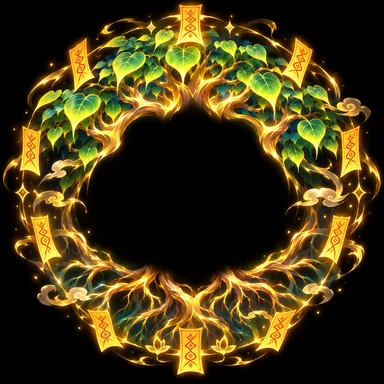
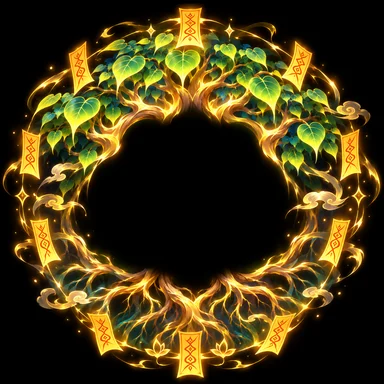
Sua hao quang SSR: can giua theo than tung dang, bo xoay, anh hao quang can tam lai

diff --git a/js/main.js b/js/main.js
@@ -2873,12 +2873,15 @@ const SSR_FX = {
 };
 const SFI = {}; function sfImg(n) { let i = SFI[n]; if (!i) { i = SFI[n] = new Image(); i.src = 'art/ssrfx/' + n + '.webp'; } return i.complete && i.naturalWidth ? i : null; }
 function ssrFxOn(u) { return u && u.side === 'h' && SSR_FX[u.id] && !u.clone && S.gfx !== 'low'; }
-function drawSsrAura(u, h) {   // hào quang sau lưng: xoay chậm, đập nhịp, sáng hơn khi đầy nộ
+function drawSsrAura(u, h) {   // hào quang sau lưng: đứng yên đúng tâm thân, đập nhịp, sáng hơn khi đầy nộ
   const im = sfImg('aura_' + u.id); if (!im) return; const full = u.mp >= 100 ? 1 : 0;
-  const S_ = h * (1.35 + 0.05 * Math.sin(u.t * 3)) * (1 + 0.15 * full);
-  ctx.save(); ctx.globalCompositeOperation = 'lighter'; ctx.globalAlpha = 0.42 + 0.12 * Math.sin(u.t * 2.2) + 0.25 * full;
-  ctx.translate(0, -h * 0.5); ctx.rotate(u.t * 0.35); ctx.drawImage(im, -S_ / 2, -S_ / 2, S_, S_); ctx.restore();
-  if (Math.random() < 0.05 + 0.1 * full) ssrPart(u.id, u.x + rand(-30, 30), u.y - h * rand(0.2, 0.9), rand(-20, 20), -rand(20, 60), 0.9);
+  const T = window.AURA_C0 && AURA_C0[u.id], tc = T && (T[u.pzN] || T.idle1); if (!tc) return;
+  u.auC = u.auC || tc.slice(); u.auC[0] += (tc[0] - u.auC[0]) * 0.25; u.auC[1] += (tc[1] - u.auC[1]) * 0.25;   // trượt mượt theo dáng
+  const hh = h * (HFIX[u.id] || 1), cx = u.auC[0] * hh * u.f * (FACE[u.id] || 1), cy = -u.auC[1] * hh;
+  const S_ = hh * (1.25 + 0.04 * Math.sin(u.t * 3)) * (1 + 0.12 * full);
+  ctx.save(); ctx.globalCompositeOperation = 'lighter'; ctx.globalAlpha = 0.45 + 0.1 * Math.sin(u.t * 2.2) + 0.25 * full;
+  ctx.drawImage(im, cx - S_ / 2, cy - S_ / 2, S_, S_); ctx.restore();
+  if (Math.random() < 0.05 + 0.1 * full) ssrPart(u.id, u.x + cx + rand(-30, 30), u.y + cy + rand(-40, 40), rand(-20, 20), -rand(20, 60), 0.9);
 }
 function ssrPart(id, x, y, vx, vy, life) { const F = SSR_FX[id]; if (!F || !B) return; B.parts.push({ x, y, vx, vy, life, max: life, color: F.col, size: 9 + Math.random() * 6, img: F.pt[0], rot: Math.random() * 6, vr: rand(-4, 4), nograv: 1 }); }
 function drawSsrProj(p) {   // đạn vẽ tay + quầng sáng (bloom giả bằng gradient cộng sáng)

diff --git a/index.html b/index.html
@@ -14,24 +14,25 @@
 <link rel="preconnect" href="https://fonts.googleapis.com">
 <link rel="preconnect" href="https://fonts.gstatic.com" crossorigin>
 <link href="https://fonts.googleapis.com/css2?family=Baloo+2:wght@500;600;700;800&display=swap" rel="stylesheet">
-<link rel="stylesheet" href="css/style.css?v=1795348332">
+<link rel="stylesheet" href="css/style.css?v=1795362587">
 </head>
 <body>
 <div id="app">
   <canvas id="game"></canvas>
   <div id="ui"></div>
 </div>
-<script src="js/data.js?v=1795348332"></script><script src="art/enemies/meta.js?v=1795348332"></script><script src="art/poses/hmeta.js?v=1795348332"></script>
-<script src="js/art.js?v=1795348332"></script>
-<script src="art/anim/manifest.js?v=1795348332"></script>
-<script src="js/rig.js?v=1795348332"></script>
-<script src="art/rig/all.js?v=1795348332"></script>
-<script src="js/layered.js?v=1795348332"></script>
-<script src="art/mesh/index.js?v=1795348332"></script>
-<script src="js/meshrig.js?v=1795348332"></script>
-<script src="art/skel/index.js?v=1795348332"></script>
-<script src="js/skel.js?v=1795348332"></script>
-<script src="js/vfx.js?v=1795348332"></script>
-<script src="js/main.js?v=1795348332"></script>
+<script src="js/data.js?v=1795362587"></script><script src="art/enemies/meta.js?v=1795362587"></script><script src="art/ssrfx/aura_c.js?v=1795362587"></script>
+  <script src="art/poses/hmeta.js?v=1795362587"></script>
+<script src="js/art.js?v=1795362587"></script>
+<script src="art/anim/manifest.js?v=1795362587"></script>
+<script src="js/rig.js?v=1795362587"></script>
+<script src="art/rig/all.js?v=1795362587"></script>
+<script src="js/layered.js?v=1795362587"></script>
+<script src="art/mesh/index.js?v=1795362587"></script>
+<script src="js/meshrig.js?v=1795362587"></script>
+<script src="art/skel/index.js?v=1795362587"></script>
+<script src="js/skel.js?v=1795362587"></script>
+<script src="js/vfx.js?v=1795362587"></script>
+<script src="js/main.js?v=1795362587"></script>
 </body>
 </html>

diff --git a/art/ssrfx/aura_c.js b/art/ssrfx/aura_c.js
@@ -1,0 +1,1 @@
+window.AURA_C0 = {"ngokhong": {"idle1": [-0.039, 0.502], "idle2": [-0.03, 0.476], "windup": [-0.016, 0.478], "strike": [-0.07, 0.457], "skill": [-0.009, 0.507], "ult": [-0.029, 0.499], "hit": [-0.048, 0.48]}, "duongtien": {"idle1": [-0.033, 0.559], "idle2": [-0.147, 0.558], "windup": [-0.056, 0.467], "strike": [-0.059, 0.482], "skill": [-0.067, 0.59], "ult": [-0.063, 0.558], "hit": [-0.069, 0.558]}, "nata": {"idle1": [0.008, 0.488], "idle2": [0.01, 0.481], "windup": [-0.01, 0.477], "strike": [-0.096, 0.452], "skill": [-0.042, 0.487], "ult": [-0.0, 0.482], "hit": [-0.009, 0.479]}, "quanam": {"idle1": [-0.005, 0.533], "idle2": [-0.003, 0.532], "windup": [0.002, 0.533], "strike": [0.015, 0.533], "skill": [-0.001, 0.533], "ult": [0.012, 0.533], "hit": [-0.039, 0.529]}, "thailaoquan": {"idle1": [-0.032, 0.512], "idle2": [-0.045, 0.511], "windup": [-0.033, 0.512], "strike": [-0.015, 0.512], "skill": [-0.05, 0.513], "ult": [-0.053, 0.517], "hit": [-0.061, 0.504]}, "ngumavuong": {"idle1": [-0.042, 0.532], "idle2": [-0.081, 0.52], "windup": [-0.057, 0.536], "strike": [-0.098, 0.472], "skill": [-0.057, 0.517], "ult": [-0.039, 0.536], "hit": [-0.089, 0.52]}, "khuongtanha": {"idle1": [-0.038, 0.515], "idle2": [-0.035, 0.515], "windup": [-0.045, 0.455], "strike": [-0.088, 0.489], "skill": [-0.047, 0.515], "ult": [-0.022, 0.519], "hit": [-0.05, 0.503]}, "bodetosu": {"idle1": [-0.04, 0.516], "idle2": [-0.044, 0.515], "windup": [-0.03, 0.46], "strike": [-0.055, 0.484], "skill": [-0.035, 0.517], "ult": [-0.043, 0.517], "hit": [-0.055, 0.504]}, "tranguyentu": {"idle1": [-0.031, 0.516], "idle2": [-0.035, 0.517], "windup": [-0.041, 0.467], "strike": [-0.066, 0.453], "skill": [-0.035, 0.519], "ult": [-0.013, 0.529], "hit": [-0.031, 0.513]}};
